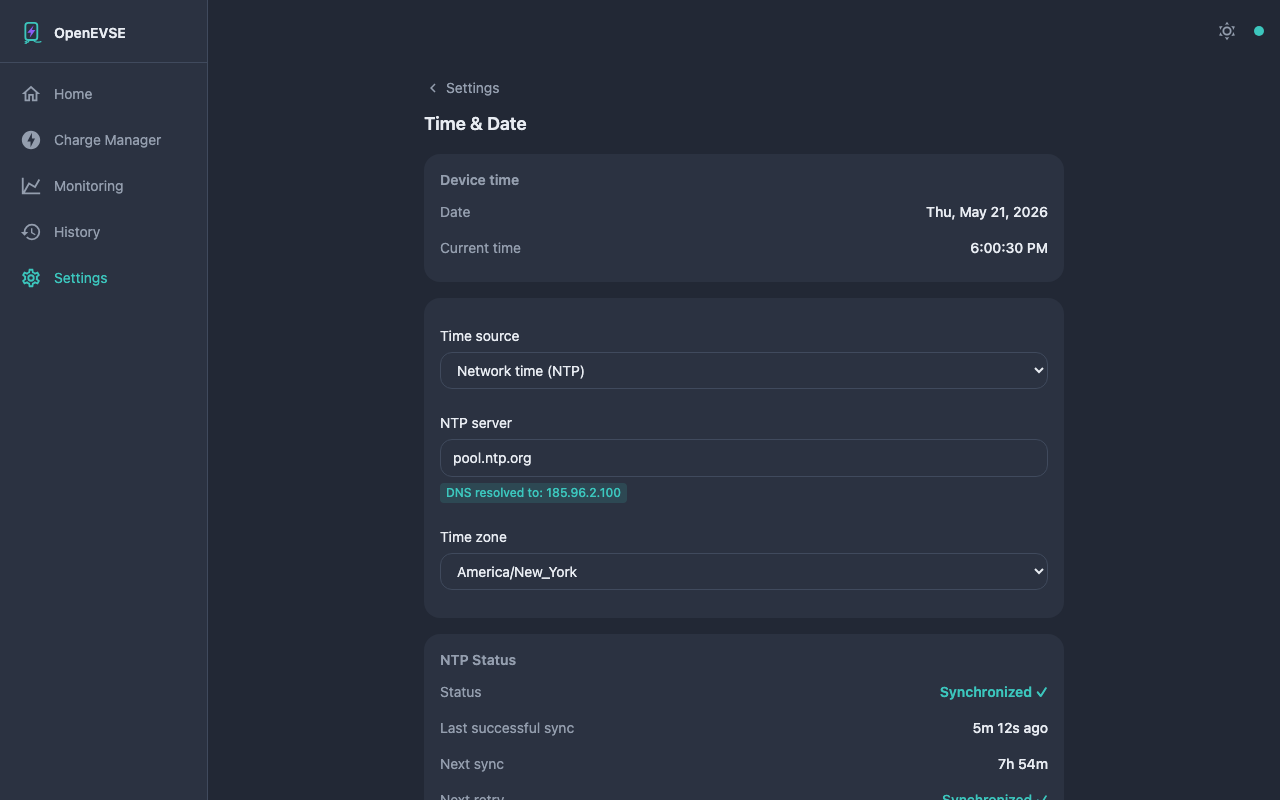
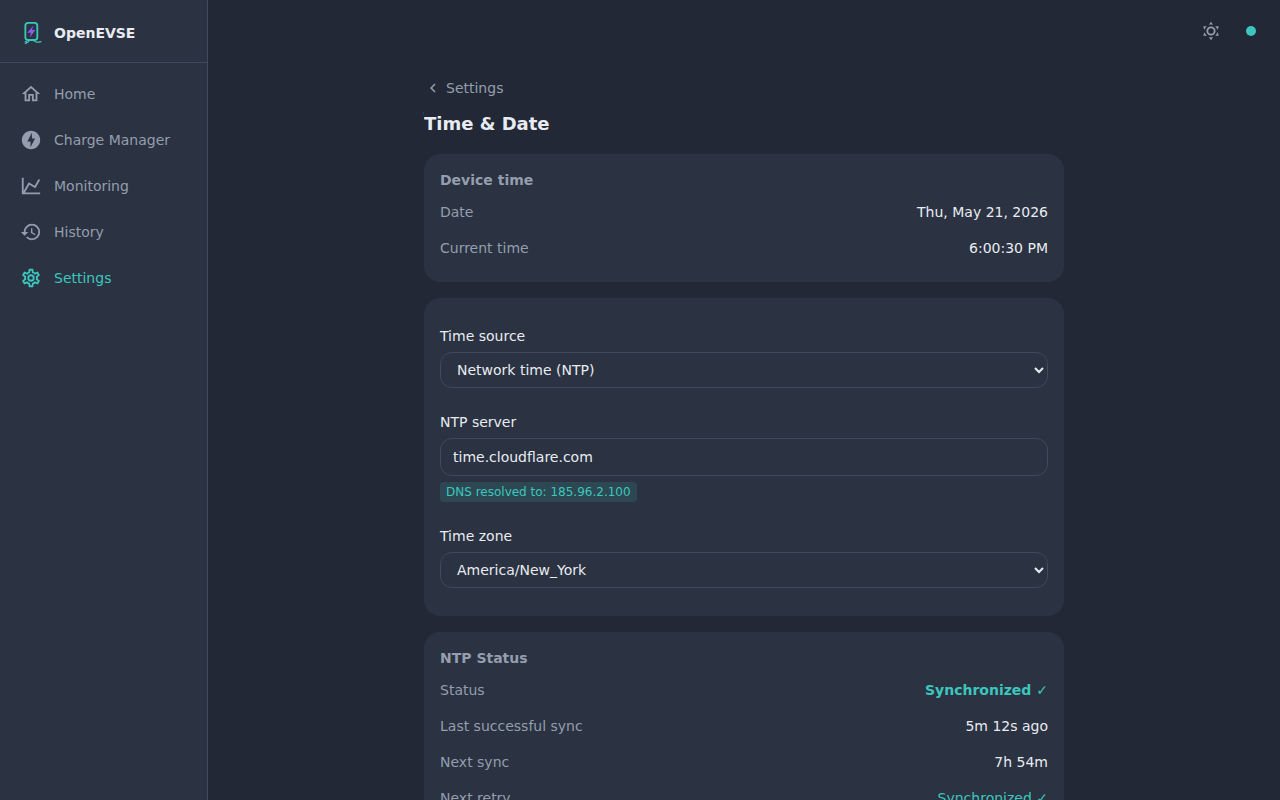
time: show time.cloudflare.com as the NTP server placeholder
Follows the firmware's new SNTP_DEFAULT_HOST (OpenEVSE/openevse_esp32_firmware#273):
pool.ntp.org's vendor policy asks products shipping it as a default to
register a vendor zone; Cloudflare's anycast service is free for any client.
Placeholders in the Time page and the setup wizard, plus the mock config,
follow suit. Existing installs keep whatever sntp_hostname they have stored.

diff --git a/src/lib/components/wizard/steps/TimeStep.svelte b/src/lib/components/wizard/steps/TimeStep.svelte
@@ -51,7 +51,7 @@
     <FormField label={$_('config.time.ntp_host')} status={$ss.sntp_hostname ?? 'idle'}>
       <TextInput
         value={$config_store?.sntp_hostname ?? ''}
-        placeholder="pool.ntp.org"
+        placeholder="time.cloudflare.com"
         revert={form.revert}
         onchange={(v) => form.saveField('sntp_hostname', v)}
       />

diff --git a/src/routes/settings/Time.svelte b/src/routes/settings/Time.svelte
@@ -160,7 +160,7 @@
         <div class="flex flex-col gap-1.5">
           <TextInput
             value={$config_store?.sntp_hostname ?? ''}
-            placeholder="pool.ntp.org"
+            placeholder="time.cloudflare.com"
             revert={form.revert}
             onchange={(v) => form.saveField('sntp_hostname', v)}
           />
